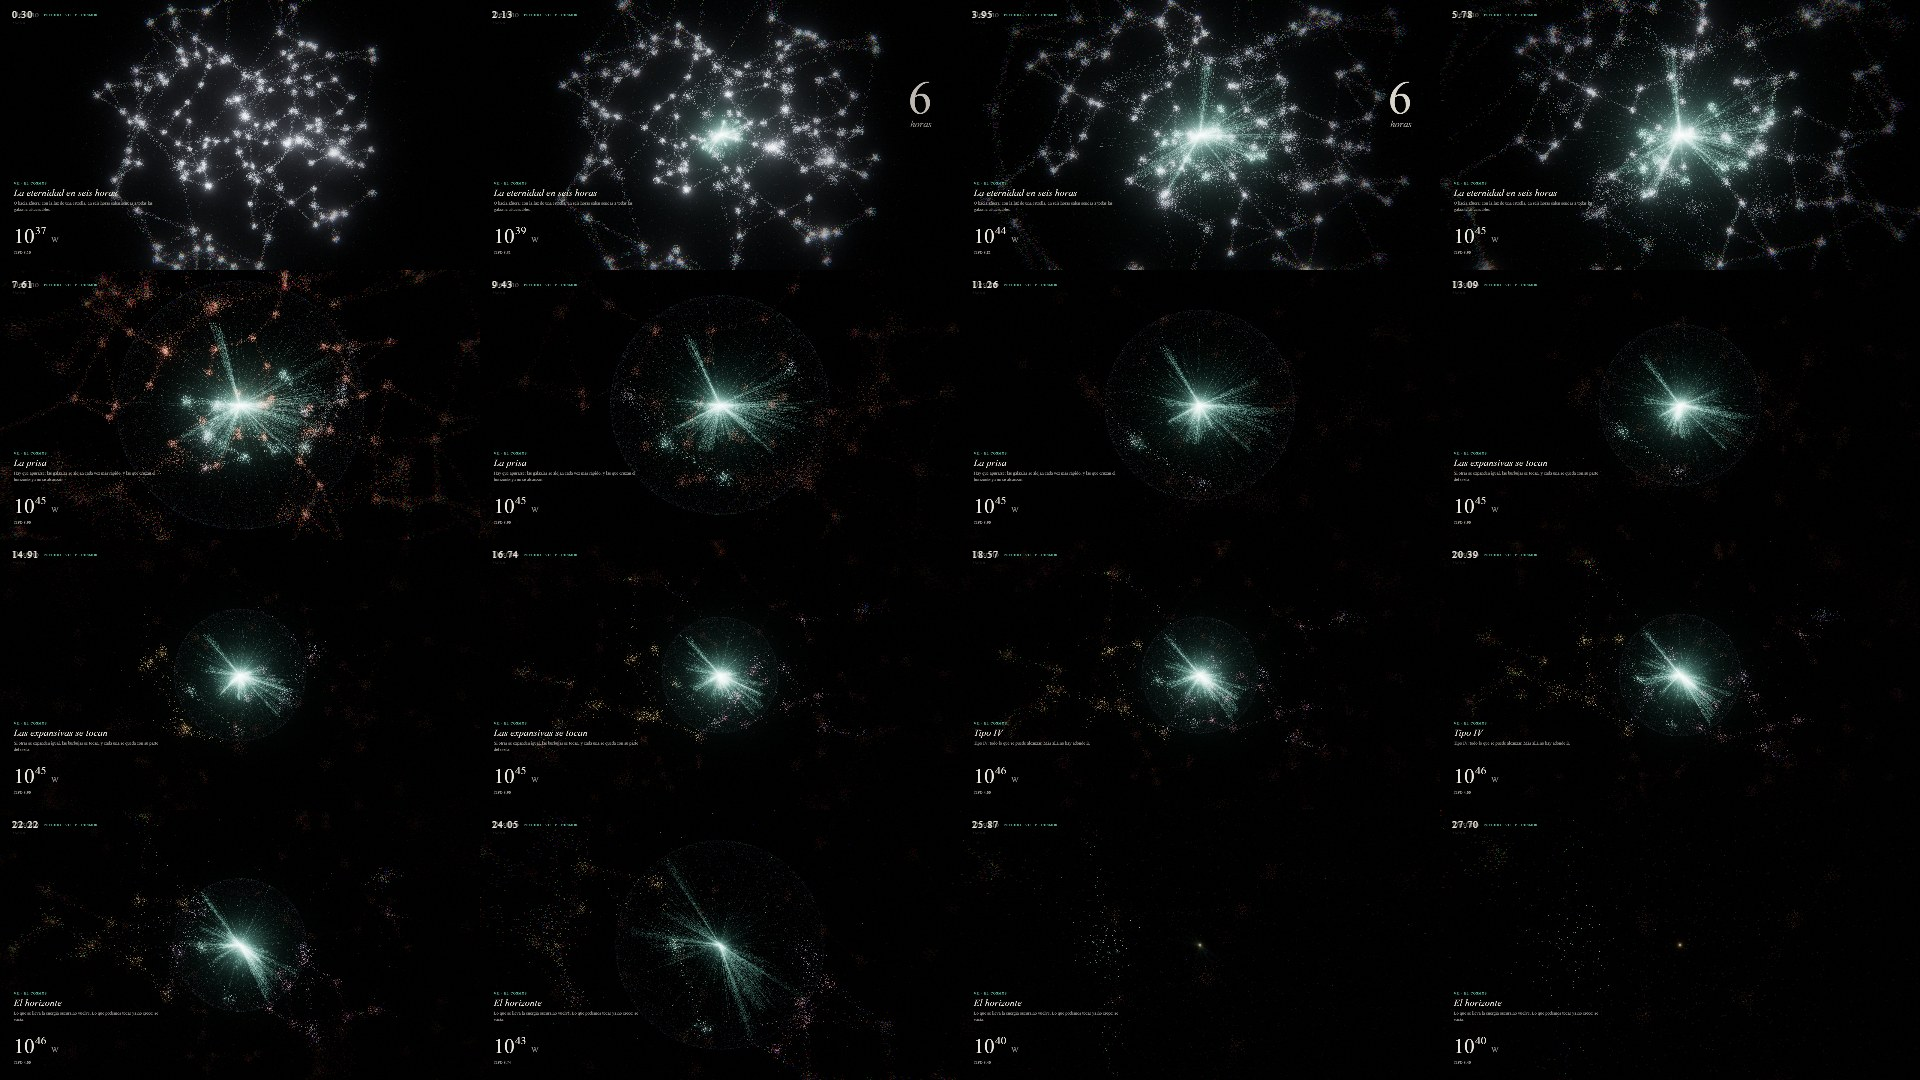
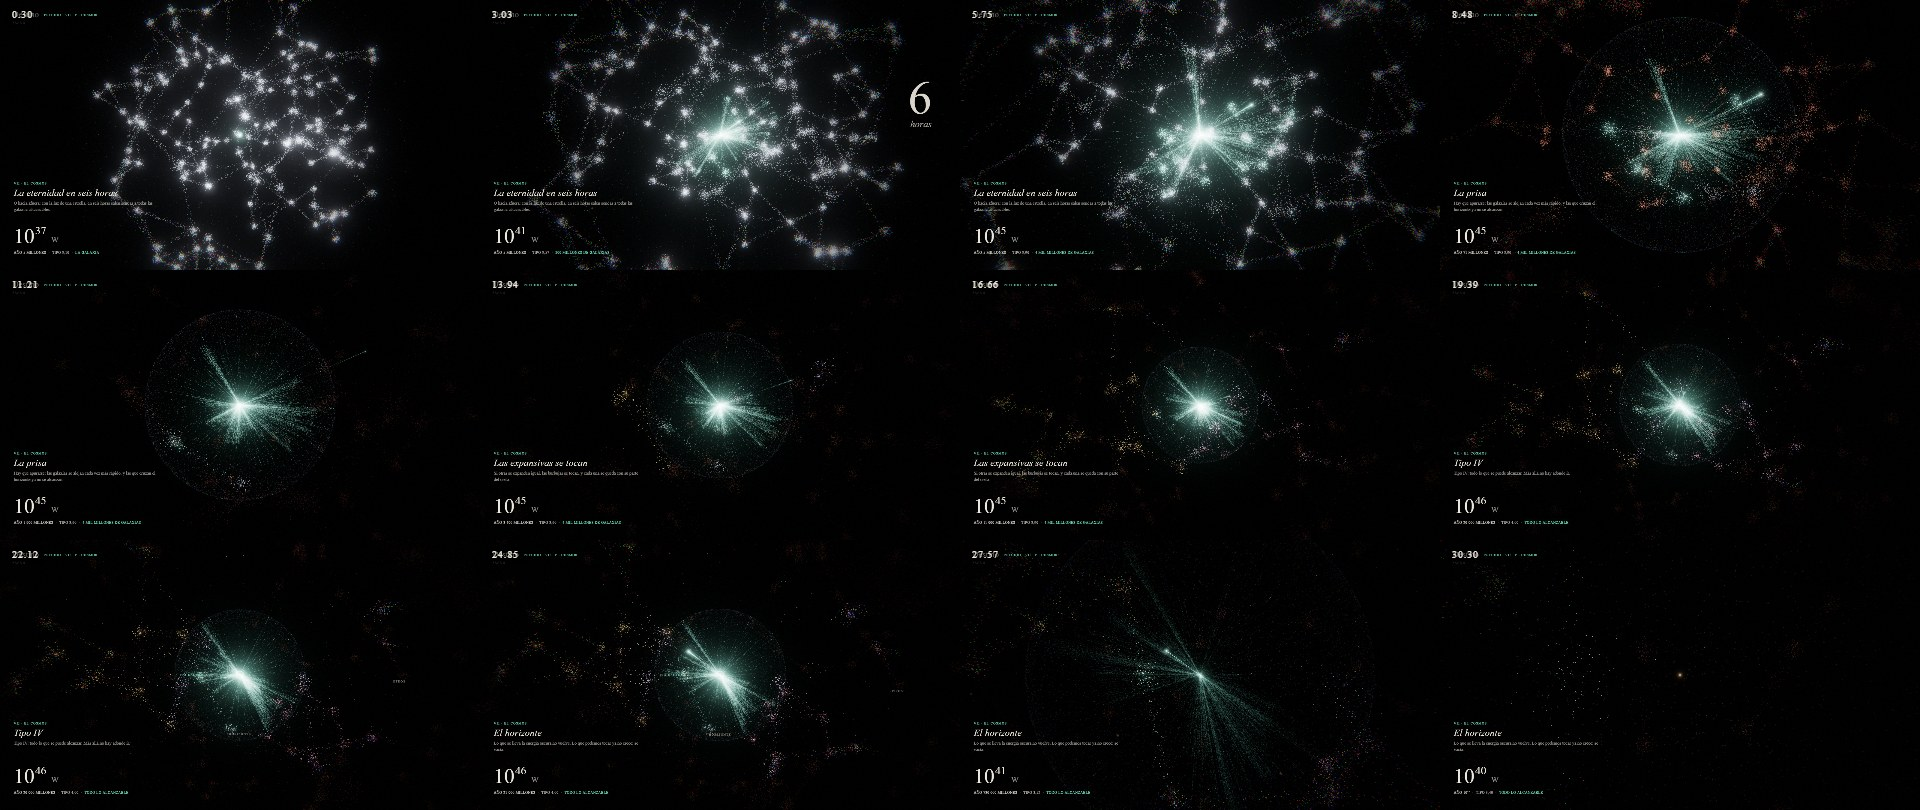
fix(estudios): let go of the bubble's branch sooner, to watch the network grow

diff --git a/estudios/galaxia.ts b/estudios/galaxia.ts
@@ -342,8 +342,8 @@ export const galaxia: Escena = {
     tl.with(1.2, { lw: 1 });
     tl.with(14.6, { ch: 1 }, EASE.sine);
     tl.with(14.6, { ld: LOG0 + DECADAS + 0.5 }, EASE.sine);
-    luego(1.2, 1.6, { ...Cn(S) });
-    luego(2.6, 2.6, { lw: 0 });
+    luego(1.0, 1.4, { ...Cn(S) });
+    luego(1.8, 2.4, { lw: 0 });
     tl.to(15.0, { az: 172, el: 30 });
 
     // The reveal: far back, the bubble spreads over the galaxy.
